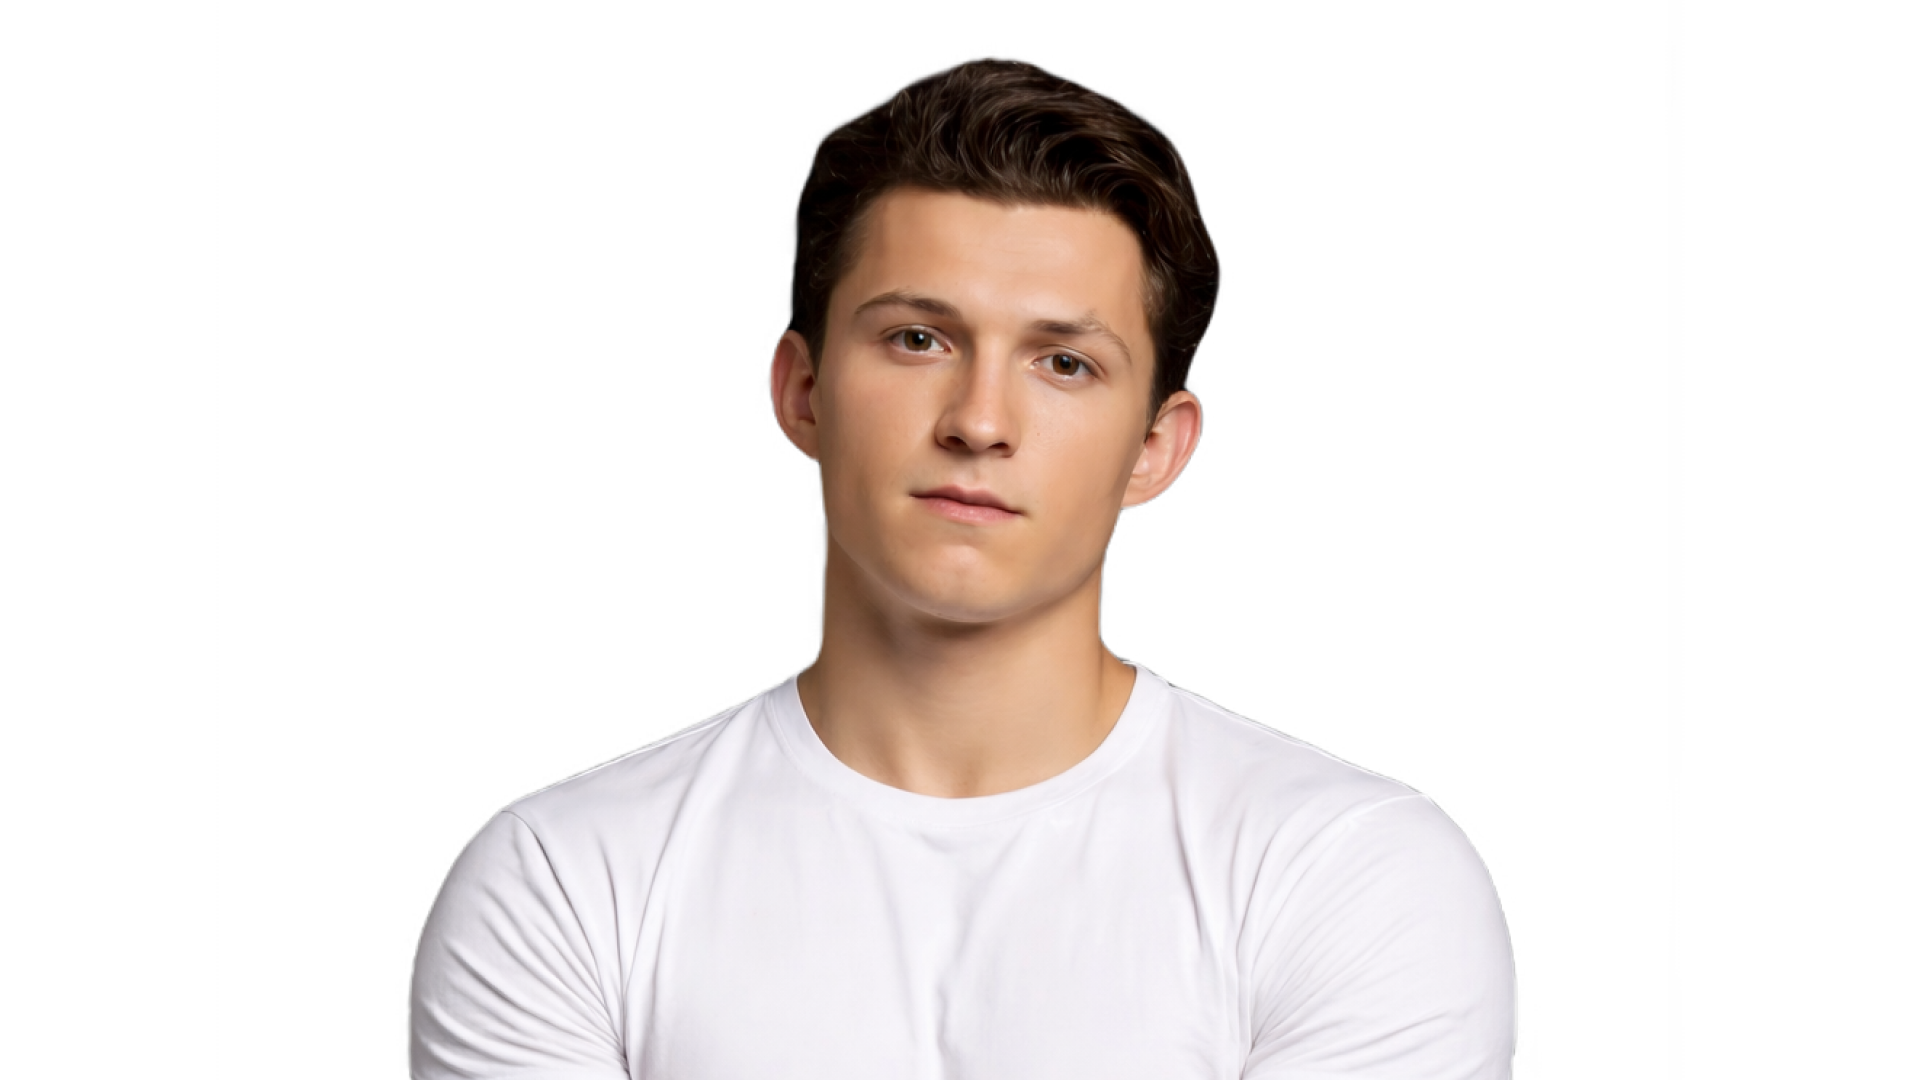
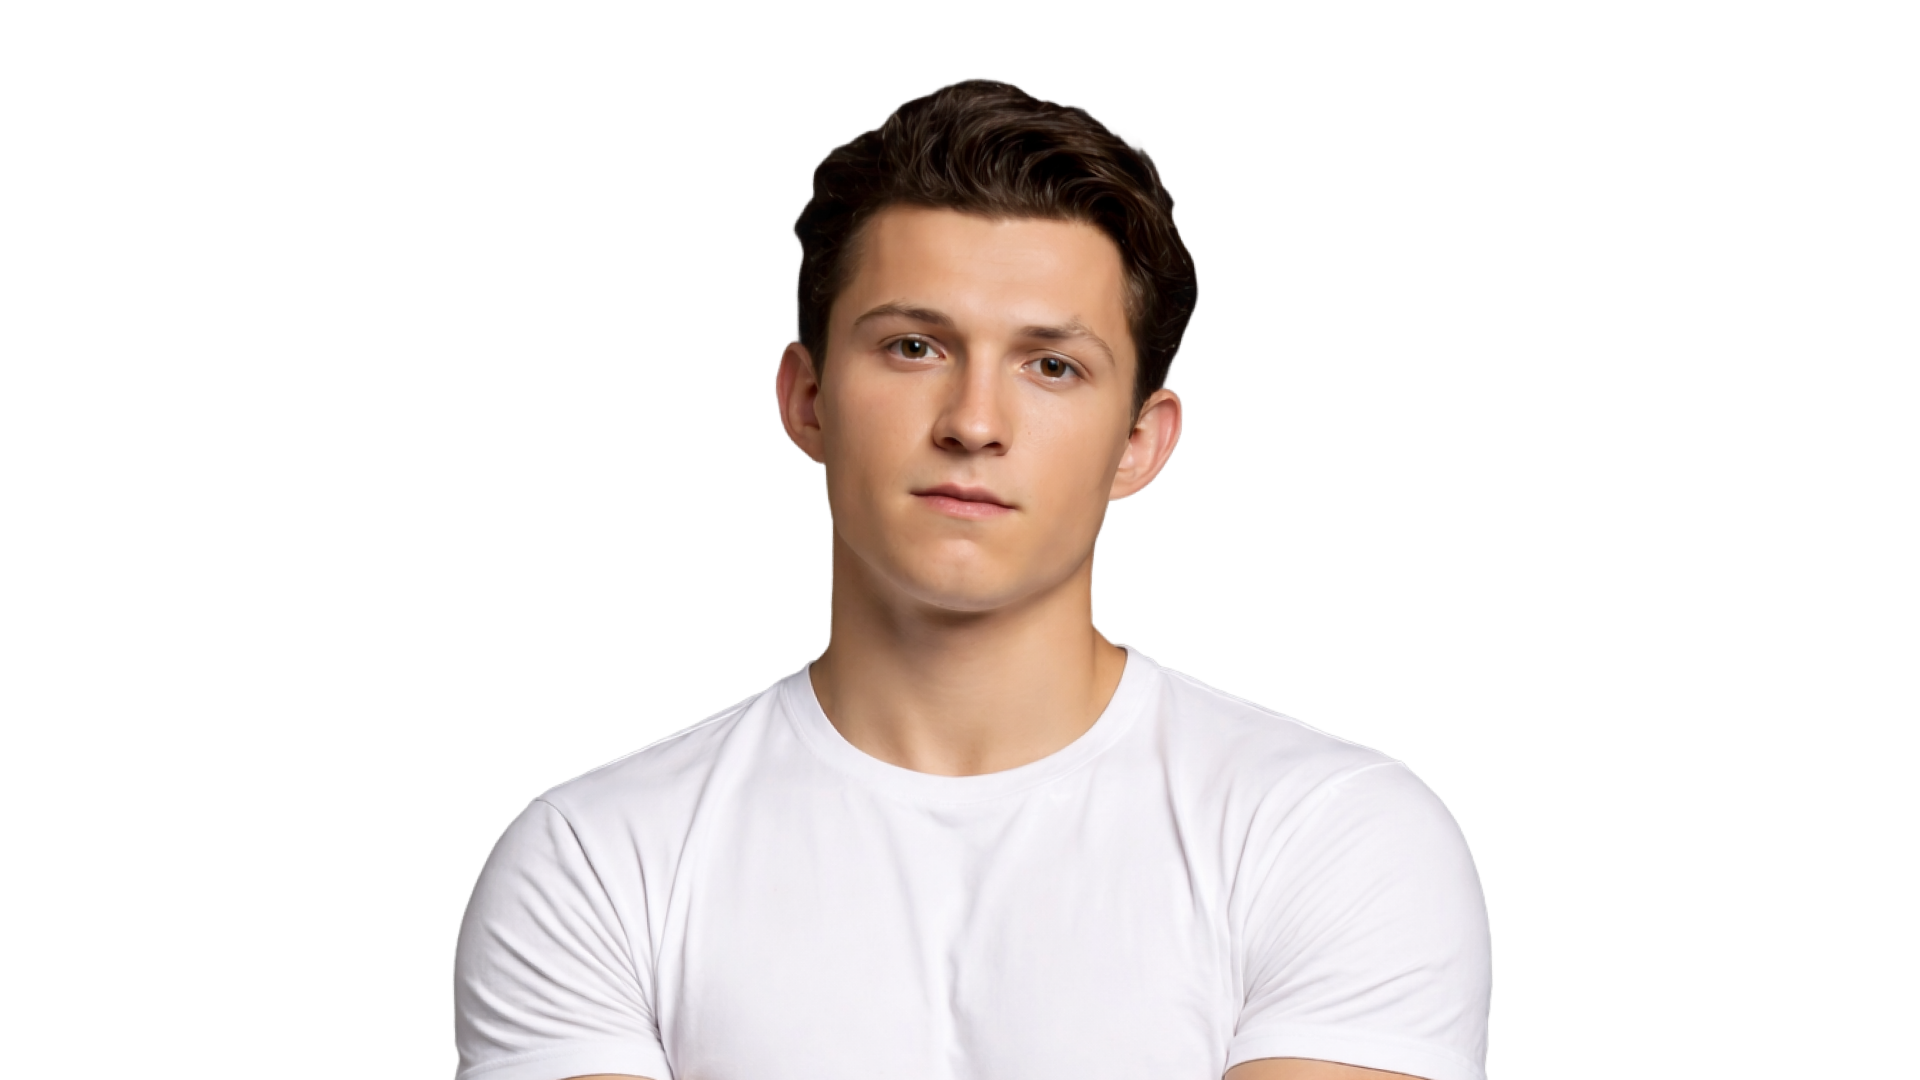
img webp

diff --git a/css/style.css b/css/style.css
@@ -100,10 +100,9 @@ canvas { display: block; }
 .info-card .card-number {
     font-family: 'Bebas Neue', sans-serif;
     font-size: 120px;
-    line-height: 0.8;
+    line-height: .9;
     color: transparent;
     -webkit-text-stroke: 1px rgba(226, 54, 54, 0.3);
-    letter-spacing: -4px;
     user-select: none;
 }
 
@@ -120,7 +119,7 @@ canvas { display: block; }
     letter-spacing: 5px;
     text-transform: uppercase;
     font-weight: 600;
-    margin-bottom: 2px;
+    margin-bottom: 8px;
 }
 
 .info-card .title {
@@ -142,7 +141,7 @@ canvas { display: block; }
     font-size: 10px;
     letter-spacing: 2px;
     text-transform: uppercase;
-    color: rgba(80, 80, 80, 0.7);
+    color: rgba(80, 80, 80, 0.75);
 }
 
 .info-card .meta-item span {
@@ -161,7 +160,7 @@ canvas { display: block; }
     bottom: 50px; right: 50px;
     z-index: 10;
     pointer-events: none;
-    color: rgba(80, 80, 80, 0.8);
+    color: rgba(80, 80, 80, 1);
     font-size: 13px;
     font-family: 'Bebas Neue', sans-serif;
     letter-spacing: 3px;
@@ -171,7 +170,7 @@ canvas { display: block; }
 .hint span {
     display: inline-block;
     width: 8px; height: 8px;
-    border: 1px solid rgba(226, 54, 54, 0.6);
+    border: 1px solid rgba(226, 54, 54, 0.8);
     border-radius: 50%;
     margin-right: 8px;
     animation: hintPulse 2s ease-in-out infinite;
@@ -285,7 +284,7 @@ canvas { display: block; }
     .cursor, .cursor-dot { display: none !important; }
     body { cursor: auto; }
 
-    .logo { top: 20px; left: 20px; }
+    .logo { top: 18px; left: 20px; }
     .logo img { height: 45px !important; }
     .logo .line { width: 30px; margin-top: 8px; }
 
@@ -317,7 +316,7 @@ canvas { display: block; }
     }
 
     .hint {
-        bottom: 110px; right: 20px;
+        bottom: 105px; right: 20px;
         font-size: 10px;
         letter-spacing: 2px;
     }

diff --git a/js/app.js b/js/app.js
@@ -150,15 +150,15 @@ if (isMobile) {
 }
 
 if (isMobile) {
-    loadTex('assets/mobile/fundobrancomobilemenino.png', 'uBg1');
-    loadTex('assets/mobile/fundobrancomobilespider.png', 'uBg2');
+    loadTex('assets/mobile/fundobrancomobile.webp', 'uBg1');
+    loadTex('assets/mobile/fundobrancomobile.webp', 'uBg2');
     loadTex('assets/mobile/meninomobilesemfundo.webp', 'uChar1');
-    loadTex('assets/mobile/spidermobilesemfundo.png', 'uChar2');
+    loadTex('assets/mobile/spidermobilesemfundo.webp', 'uChar2');
 } else {
-    loadTex('assets/desktop/fundo brancomenino.png', 'uBg1');
-    loadTex('assets/desktop/fundobrancospider.png', 'uBg2');
+    loadTex('assets/desktop/fundobrancomenino.webp', 'uBg1');
+    loadTex('assets/desktop/fundobrancospider.webp', 'uBg2');
     loadTex('assets/desktop/Semfundomenino.webp', 'uChar1');
-    loadTex('assets/desktop/semfundospider.png', 'uChar2');
+    loadTex('assets/desktop/semfundospider.webp', 'uChar2');
 }
 document.addEventListener('mousemove', (e) => {
     mouse.x = e.clientX / window.innerWidth;

diff --git a/index.html b/index.html
@@ -48,7 +48,6 @@
     </a>
 
     <div class="info-card">
-        <div class="card-number">04</div>
         <div class="card-content">
             <div class="label">2026 — Marvel Studios</div>
             <div class="title">SPIDER-MAN<br>BRAND NEW DAY</div>
